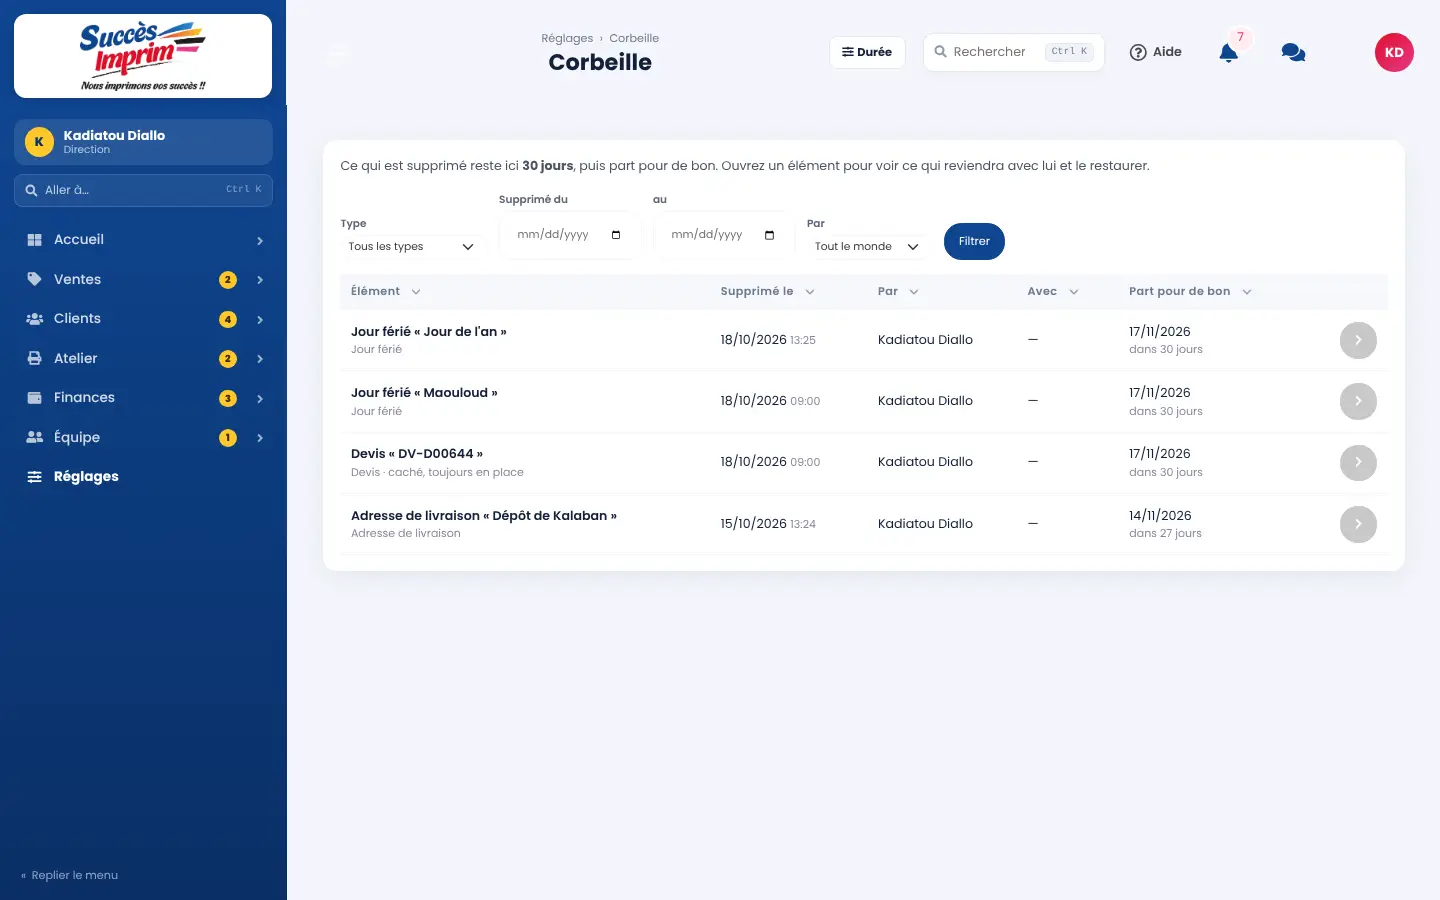
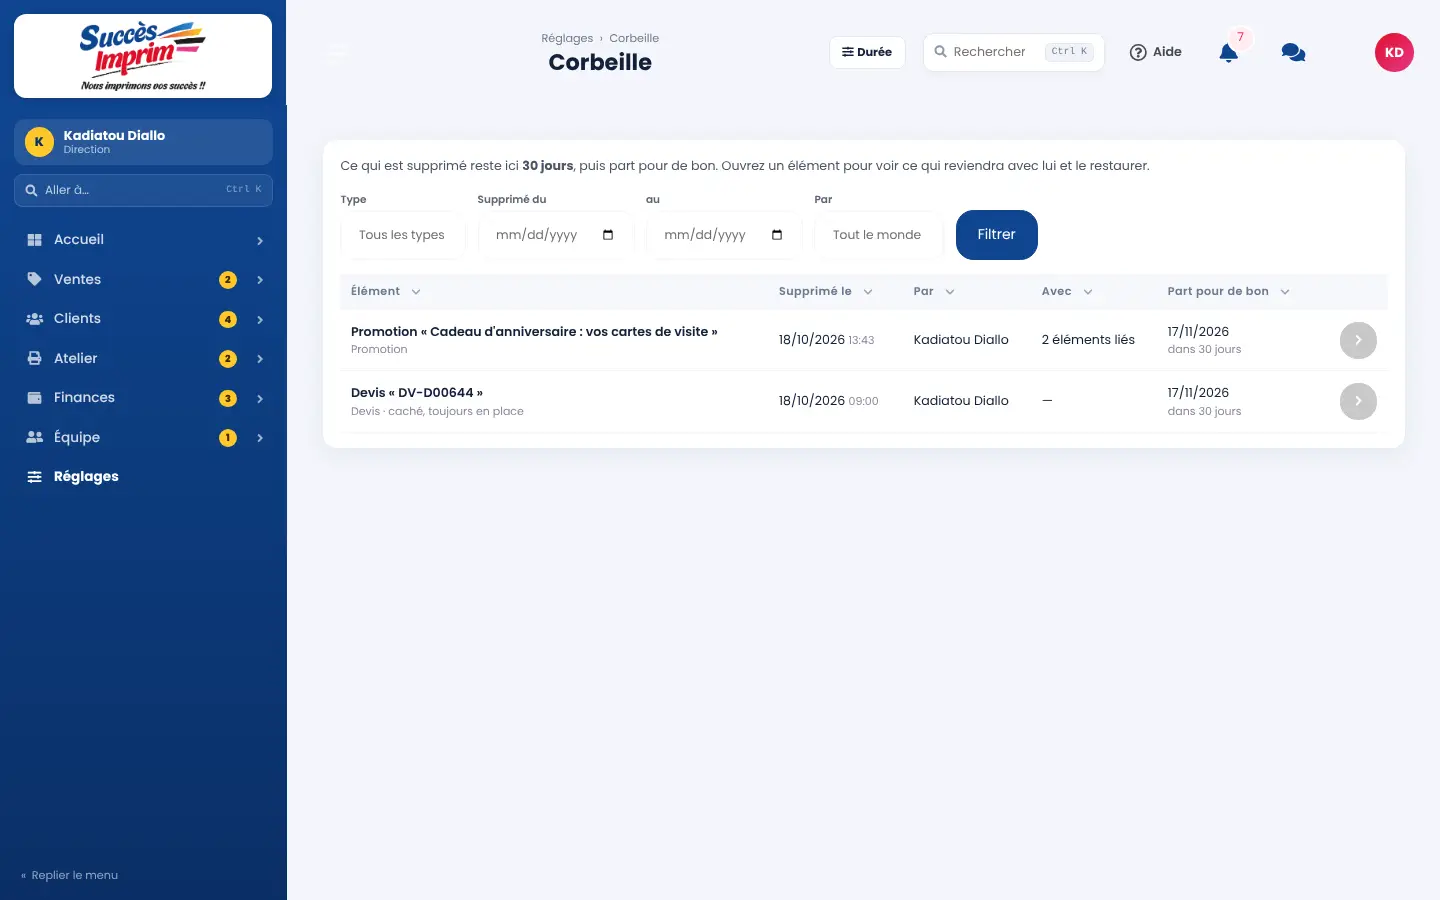
Corbeille : liens nommés d'après leur colonne, fil d'Ariane sans entité HTML
- Détail : « Créé par », « Modifié par » au lieu de deux « Compte du
  personnel » ; quelques mots accentués de plus (libellé, défaut…).
- Fil d'Ariane de l'ERP : un titre avec une apostrophe (« Jour de l'an »)
  ne s'affiche plus « l&#039;an » (le titre est déjà échappé).
- Capture du guide refaite, docs/corbeille.md : détail lisible et liste
  en fiches sur téléphone.

Claude-Session: https://claude.ai/code/session_01SdHrSU86dEympmvJ2kHDkz

diff --git a/src/Service/Corbeille/TypesCorbeille.php b/src/Service/Corbeille/TypesCorbeille.php
@@ -242,6 +242,8 @@ final class TypesCorbeille
         'annule' => 'annulé', 'annulee' => 'annulée', 'livre' => 'livré', 'livree' => 'livrée', 'tache' => 'tâche',
         'evenement' => 'événement', 'electronique' => 'électronique', 'ttc' => 'TTC', 'ht' => 'HT', 'tva' => 'TVA',
         'sms' => 'SMS', 'url' => 'URL', 'ia' => 'IA', 'bat' => 'BAT', 'pao' => 'PAO', 'b2b' => 'B2B', 'nb' => 'nombre de',
+        'libelle' => 'libellé', 'defaut' => 'défaut', 'cout' => 'coût', 'role' => 'rôle', 'activite' => 'activité',
+        'operateur' => 'opérateur', 'beneficiaire' => 'bénéficiaire', 'methode' => 'méthode', 'reperes' => 'repères', 'repere' => 'repère',
     ];
 
     /** « date_devis » : « Date devis » ; « numero » : « Numéro ». */
@@ -252,6 +254,18 @@ final class TypesCorbeille
         $nom = trim(implode(' ', $mots));
 
         return mb_strtoupper(mb_substr($nom, 0, 1)).mb_substr($nom, 1);
+    }
+
+    /**
+     * Nom d'un champ qui pointe vers une autre fiche : « Client » pour
+     * client_id, « Créé par » pour cree_par_id (deux liens vers le
+     * personnel ne portent pas le même nom).
+     */
+    public static function nomLien(string $colonne, string $cible): string
+    {
+        $base = (string) preg_replace('/_id$/', '', $colonne);
+
+        return \in_array($cible, [$base, $base.'s', $base.'x'], true) ? self::type($cible) : self::nomColonne($base);
     }
 
     /**

diff --git a/tests/Unit/Service/Corbeille/TypesCorbeilleTest.php b/tests/Unit/Service/Corbeille/TypesCorbeilleTest.php
@@ -132,6 +132,9 @@ final class TypesCorbeilleTest extends TestCase
         self::assertSame('Facturer à un tiers', TypesCorbeille::nomColonne('facturer_aun_tiers'));
         self::assertSame('Total TTC', TypesCorbeille::nomColonne('total_ttc'));
         self::assertSame('État', TypesCorbeille::nomColonne('etat'), 'majuscule accentuée');
+        self::assertSame('Client', TypesCorbeille::nomLien('client_id', 'clients'));
+        self::assertSame('Compte du personnel', TypesCorbeille::nomLien('user_id', 'user'));
+        self::assertSame('Créé par', TypesCorbeille::nomLien('cree_par_id', 'user'), 'deux liens vers le personnel, deux noms');
         self::assertSame('Société', TypesCorbeille::type('societe'), 'table sans type : nommée d\'après elle, avec ses accents');
         self::assertSame('DEV-2026-0042', TypesCorbeille::titre('devis', ['numero' => 'DEV-2026-0042']));
         self::assertNull(TypesCorbeille::titre('devis', ['numero' => ' ']));

diff --git a/src/Service/Corbeille/Corbeille.php b/src/Service/Corbeille/Corbeille.php
@@ -294,7 +294,7 @@ final class Corbeille
                 continue;
             }
             $reference = $references[$colonne] ?? null;
-            $libelle = null !== $reference ? TypesCorbeille::type($reference['cible']) : TypesCorbeille::nomColonne($colonne);
+            $libelle = null !== $reference ? TypesCorbeille::nomLien($colonne, $reference['cible']) : TypesCorbeille::nomColonne($colonne);
             if (!$direction && TypesCorbeille::estMontant($colonne)) {
                 $champs[] = ['libelle' => $libelle, 'valeur' => 'masqué (montant réservé à la Direction)'];
                 continue;

diff --git a/docs/corbeille.md b/docs/corbeille.md
@@ -108,6 +108,12 @@ On peut filtrer par type, par période (du, au) et par personne. La liste montre
 
 Le détail d'une entrée montre ses champs et ce qui reviendra avec elle (adresses, accès, lignes…). Les montants y sont masqués pour qui n'est pas la Direction.
 
+- Les champs se lisent comme ailleurs dans l'application : dates en jj/mm/aaaa, « oui » ou « non », montants avec leurs milliers séparés (70 000), noms de colonnes accentués (`TypesCorbeille::nomColonne`).
+- Une fiche liée est nommée, par exemple « ONG Eau pour Tous (n° 900009) », si la personne a le droit de la voir ; sinon seulement son numéro. Si elle a disparu, le détail le dit (« n° 7, n'existe plus ») : la restauration sera refusée.
+- Un lien d'une table de liaison (client visé par une promotion, produit d'une promotion) apparaît comme « lien vers une autre fiche », nommé d'après la fiche de l'autre côté, avec le même contrôle de droit.
+
+Sur téléphone, la liste passe en fiches : le titre, la date de suppression et le jour où l'entrée part pour de bon.
+
 - **Restaurer** remet tout en place **avec les mêmes numéros**, dans une seule transaction, fiches liées comprises, et rebranche les liens vidés (sauf s'ils ont changé depuis). La restauration est refusée, sans rien écrire, avec un message en français, dans ces cas :
   - la fiche à laquelle l'élément était rattaché n'existe plus (« Adresse de livraison « Boutique » ne peut pas revenir : client n° 7 auquel il était rattaché n'existe plus. ») ;
   - cette fiche est elle-même dans la corbeille (« Restaurez-le d'abord. ») ;
